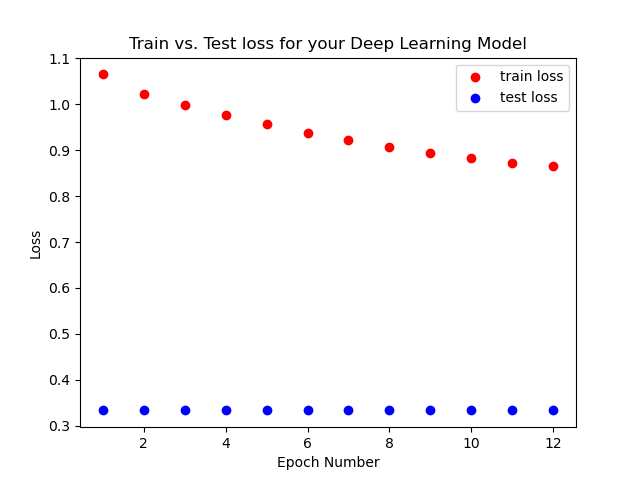
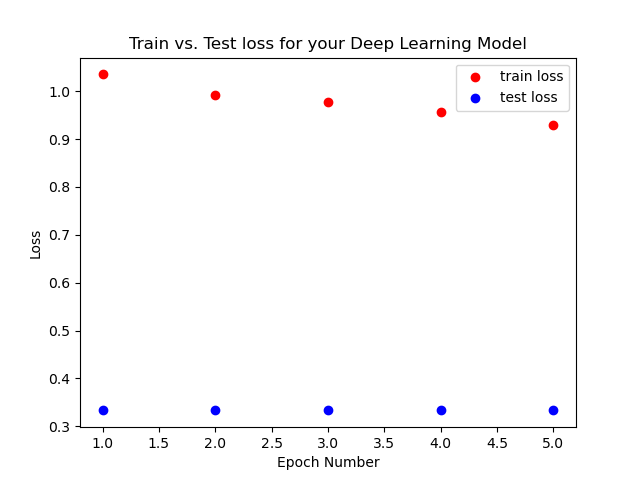
Download CSV output button

diff --git a/frontend/playground-frontend/src/Home.js b/frontend/playground-frontend/src/Home.js
@@ -25,6 +25,7 @@ import { HTML5Backend } from "react-dnd-html5-backend";
 import DataTable from "react-data-table-component";
 import LOSS_VIZ from "./visualization_output/my_loss_plot.png";
 import ACC_VIZ from "./visualization_output/my_accuracy_plot.png";
+import { CSVLink, CSVDownload } from "react-csv";
 
 const _TitleText = (props) => {
   const { text } = props;
@@ -39,14 +40,45 @@ const Home = () => {
 
   // input responses
   const [fileURL, setFileURL] = useState("");
-  const [addedLayers, setAddedLayers] = useState([]);
+  const [addedLayers, setAddedLayers] = useState([
+    {
+      display_name: "Linear",
+      object_name: "nn.Linear",
+      parameters: {
+        inputSize: { index: 0, parameter_name: "Input size", value: 4 },
+        outputSize: { index: 1, parameter_name: "Output size", value: 10 },
+      },
+    },
+    {
+      display_name: "ReLU",
+      object_name: "nn.ReLU",
+      parameters: {},
+    },
+    {
+      display_name: "Linear",
+      object_name: "nn.Linear",
+      parameters: {
+        inputSize: { index: 0, parameter_name: "Input size", value: 10 },
+        outputSize: { index: 1, parameter_name: "Output size", value: 3 },
+      },
+    },
+    {
+      display_name: "Softmax",
+      object_name: "nn.Softmax",
+      parameters: {
+        inputSize: { index: 0, parameter_name: "dim", value: -1 },
+      },
+    },
+  ]);
   const [targetCol, setTargetCol] = useState();
   const [features, setFeatures] = useState([]);
-  const [problemType, setProblemType] = useState();
-  const [criterion, setCriterion] = useState();
-  const [optimizerName, setOptimizerName] = useState();
-  const [usingDefaultDataset, setUsingDefaultDataset] = useState();
-  const [shuffle, setShuffle] = useState(BOOL_OPTIONS[1]);
+  const [problemType, setProblemType] = useState(PROBLEM_TYPES[0]);
+  const [criterion, setCriterion] = useState(CRITERIONS[3]);
+  const [optimizerName, setOptimizerName] = useState(OPTIMIZER_NAMES[0]);
+  const [usingDefaultDataset, setUsingDefaultDataset] = useState(
+    DEFAULT_DATASETS[0]
+  );
+  const [shuffle, setShuffle] = useState(BOOL_OPTIONS[0]);
   const [epochs, setEpochs] = useState(5);
   const [testSize, setTestSize] = useState(0.2);
   const [inputFeatureColumnOptions, setInputFeatureColumnOptions] = useState(
@@ -73,10 +105,10 @@ const Home = () => {
     value: i,
   }));
 
-  const handleChange = (e) => {
+  const handleTargetChange = (e) => {
     setTargetCol(e);
     const csvColumnsCopy = JSON.parse(JSON.stringify(inputColumnOptions));
-    csvColumnsCopy.splice(e["value"], 1);
+    csvColumnsCopy.splice(e.value, 1);
     setInputFeatureColumnOptions(csvColumnsCopy);
   };
 
@@ -84,33 +116,39 @@ const Home = () => {
     {
       queryText: "Target Column",
       options: inputColumnOptions,
-      onChange: handleChange,
+      onChange: handleTargetChange,
+      defaultValue: targetCol,
     },
     {
       queryText: "Features",
       options: inputFeatureColumnOptions,
       onChange: setFeatures,
       isMultiSelect: true,
+      defaultValue: features,
     },
     {
       queryText: "Problem Type",
       options: PROBLEM_TYPES,
       onChange: setProblemType,
+      defaultValue: problemType,
     },
     {
       queryText: "Optimizer Name",
       options: OPTIMIZER_NAMES,
       onChange: setOptimizerName,
+      defaultValue: optimizerName,
     },
     {
       queryText: "Criterion",
       options: CRITERIONS,
       onChange: setCriterion,
+      defaultValue: criterion,
     },
     {
       queryText: "Default",
       options: DEFAULT_DATASETS,
       onChange: setUsingDefaultDataset,
+      defaultValue: usingDefaultDataset,
     },
     {
       queryText: "Epochs",
@@ -133,37 +171,60 @@ const Home = () => {
   ];
 
   const showResults = () => {
-    if (dlpBackendResponse?.success) {
-      return (
-        <>
-          <DataTable
-            pagination
-            highlightOnHover
-            columns={csvDataToColumns(dl_results_data)}
-            data={dl_results_data}
-          />
-          <>
-            {problemType.value === "classification" ? (
-              <img
-                src={ACC_VIZ}
-                alt="Test accuracy for your Deep Learning Model"
-              />
-            ) : undefined}
-            <img
-              src={LOSS_VIZ}
-              alt="Train vs. Test for your Deep Learning Model"
-            />
-          </>
-        </>
-      );
-    } else {
+    if (!dlpBackendResponse?.success) {
       return (
         dlpBackendResponse.message || (
-          <p style={{ textAlign: "left" }}>There are no records to display</p>
+          <p style={{ textAlign: "center" }}>There are no records to display</p>
         )
       );
     }
+
+    const dl_results_columns_react_csv = Object.keys(dl_results_data[0]).map(
+      (c) => ({
+        label: c,
+        key: c,
+      })
+    );
+
+    return (
+      <>
+        <CSVLink data={dl_results_data} headers={dl_results_columns_react_csv}>
+          <button style={styles.download_csv_res}>
+            📄 Download Results (CSV)
+          </button>
+        </CSVLink>
+
+        <DataTable
+          pagination
+          highlightOnHover
+          columns={Object.keys(dl_results_data[0]).map((c) => ({
+            name: c,
+            selector: (row) => row[c],
+          }))}
+          data={dl_results_data}
+        />
+        <>
+          {problemType.value === "classification" ? (
+            <img
+              src={ACC_VIZ}
+              alt="Test accuracy for your Deep Learning Model"
+            />
+          ) : undefined}
+          <img
+            src={LOSS_VIZ}
+            alt="Train vs. Test for your Deep Learning Model"
+          />
+        </>
+      </>
+    );
   };
+
+  const csvDataiii = [
+    ["firstname", "lastname", "email"],
+    ["Ahmed", "Tomi", "ah@smthing.co.com"],
+    ["Raed", "Labes", "rl@smthing.co.com"],
+    ["Yezzi", "Min l3b", "ymin@cocococo.com"],
+  ];
 
   return (
     <div style={{ padding: 20 }}>
@@ -171,7 +232,6 @@ const Home = () => {
         <img src={DSGTLogo} alt="DSGT Logo" width="60" height="60" />
         Deep Learning Playground
       </h1>
-
       <DndProvider backend={HTML5Backend}>
         <_TitleText text="Implemented Layers" />
         <BackgroundLayout>
@@ -238,28 +298,21 @@ const Home = () => {
           ))}
         </BackgroundLayout>
       </DndProvider>
-
       <div style={{ marginTop: 20 }} />
-
       <_TitleText text="Deep Learning Parameters" />
-
       <BackgroundLayout>
         {input_queries.map((e) => (
           <Input {...e} key={e.queryText} />
         ))}
       </BackgroundLayout>
-
       <_TitleText text="CSV Input" />
-
       <DataTable
         pagination
         highlightOnHover
         columns={csvColumns}
         data={csvData}
       />
-
       <_TitleText text="Deep Learning Results" />
-
       {showResults()}
     </div>
   );
@@ -284,13 +337,12 @@ const styles = {
     ...LAYOUT.column,
     // justifyContent: "space-between",
   },
-};
-
-const csvDataToColumns = (data) => {
-  if (!data?.length) return;
-  const headers = Object.keys(data[0]);
-  return headers.map((c) => ({
-    name: c,
-    selector: (row) => row[c],
-  }));
+  download_csv_res: {
+    backgroundColor: COLORS.layer,
+    border: "none",
+    color: "white",
+    ...GENERAL_STYLES.p,
+    padding: 6,
+    cursor: "pointer",
+  },
 };

diff --git a/frontend/playground-frontend/src/components/Input.js b/frontend/playground-frontend/src/components/Input.js
@@ -56,6 +56,7 @@ Input.propTypes = {
     PropTypes.object,
     PropTypes.number,
     PropTypes.string,
+    PropTypes.array,
   ]),
   isMultiSelect: PropTypes.bool,
 };

diff --git a/frontend/playground-frontend/src/components/DropDown.js b/frontend/playground-frontend/src/components/DropDown.js
@@ -24,6 +24,7 @@ DropDown.propTypes = {
     PropTypes.object,
     PropTypes.number,
     PropTypes.string,
+    PropTypes.array,
   ]),
   isMulti: PropTypes.bool,
 };
